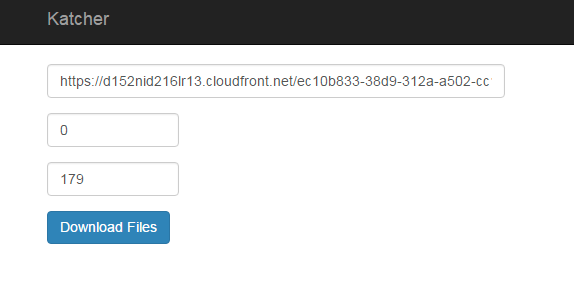
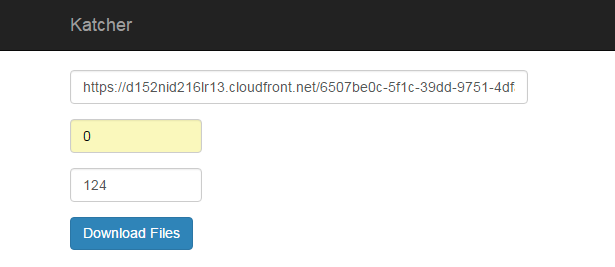
Write README

Changed region(s): [[0.0, 0.03, 1.0, 0.5993], [0.0592, 0.6292, 0.3258, 0.9588]]

diff --git a/README.md b/README.md
@@ -1,5 +1,5 @@
 # Katcher
-A PHP video downloader for [katch.me](https://katch.me/) which converts .ts file parts to .mp4
+A PHP video downloader for [katch.me](https://katch.me/) which converts .ts file parts to a single .mp4 video
 
 ## Requirements
 * PHP 5.6+
@@ -13,21 +13,40 @@ A PHP video downloader for [katch.me](https://katch.me/) which converts .ts file
 * Run composer install
 
 ## Usage
+#### [Download Ts Files]
 ##### Run Katcher in your browser
+
 ##### Visit any katch.me video URL
-e.g. https://katch.me/NAThomestead/v/ec10b833-38d9-312a-a502-cc1371513d88
-##### Get any .ts URL
-One way this can be done is to use the Google Chrome Devtools (F12). Go to the network tab and copy the link of a .ts file.
-https://d152nid216lr13.cloudfront.net/ec10b833-38d9-312a-a502-cc1371513d88/chunk_0.ts
-##### Paste it in the URL field
+e.g. https://katch.me/GeorgiaAquarium/v/6507be0c-5f1c-39dd-9751-4dfaeb71debd
+
+##### Copy any .ts URL and paste it in the URL field
+One way to do this is to use Google Chrome Devtools (F12) to extract a .ts URL. Go to the network tab and copy the link of any .ts file. Sample link: https://d152nid216lr13.cloudfront.net/6507be0c-5f1c-39dd-9751-4dfaeb71debd/chunk_1.ts
+
+[Extract Ts Image]
+
 ##### Determine the number of the first and last file
-Just modify the number in the .ts URL you copied. (e.g. 250 - for example https://d152nid216lr13.cloudfront.net/ec10b833-38d9-312a-a502-cc1371513d88/chunk_250.ts) For example you want to go to the 250th part just do this:
-If you are presented an access denied page, that is the indication that a file part does not exist. The last part is the last downloadable file. Make sure to test the next file parts if you have reached an access denied page. There is a tendency that other file parts are just skipped.
-#### Click the Download Button
+Just modify the number in the .ts URL you copied then visit it. Example to get the 75th file: https://d152nid216lr13.cloudfront.net/6507be0c-5f1c-39dd-9751-4dfaeb71debd/chunk_75.ts .
 
-After all the .ts files are downloaded, you will be redirected to the convert page. From there, if everything is alright, just click the Convert button.
+A file exists if it is downloadable. If you are presented an access denied page, it means that a file part does not exist. Most of the time, the first part is 0, and the last part is the last downloadable file. Make sure to test the next file parts if you have reached an access denied page because maybe it's just a skipped part.
 
-Finally, you will be redirected to the download page where you can download the mp4 video.
+[Access Denied Image]
 
+##### Click the Download Button
 
+This may take some time.
 
+[Download Ts Image]
+
+#### [Convert]
+After downloading the ts files, you will be redirected to the convert page. Just click the Convert button.
+
+[Convert Image]
+
+#### [Download mp4]
+Finally, you will be redirected to the download page where your browser will automatically download the mp4 video.
+
+## Additional Notes
+#### Missing File Parts
+There are times when some files will not be downloaded due to internet connection problems. You will be prompted to re-download those files before you will be able to convert.
+
+[Redownload Image]
